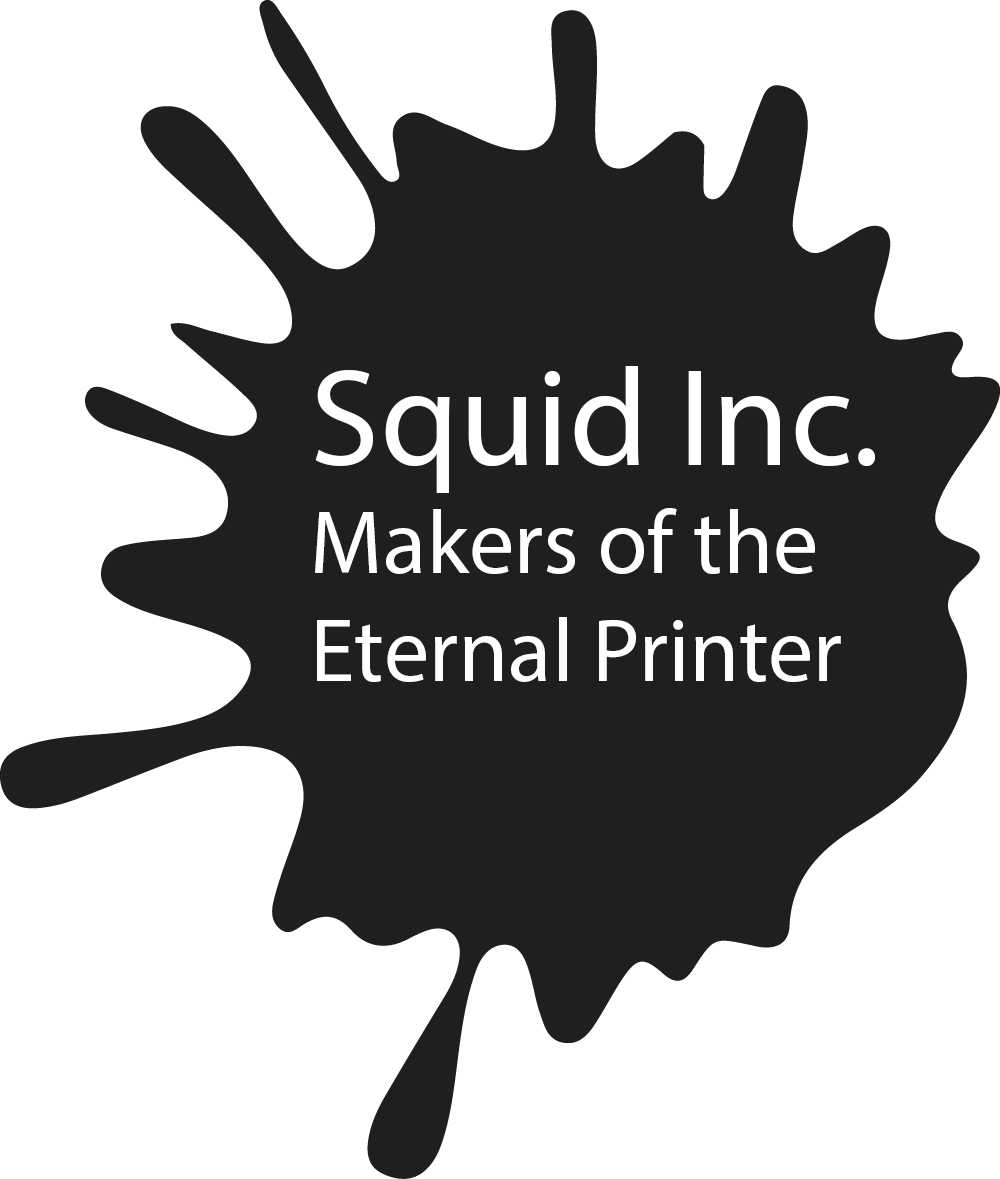
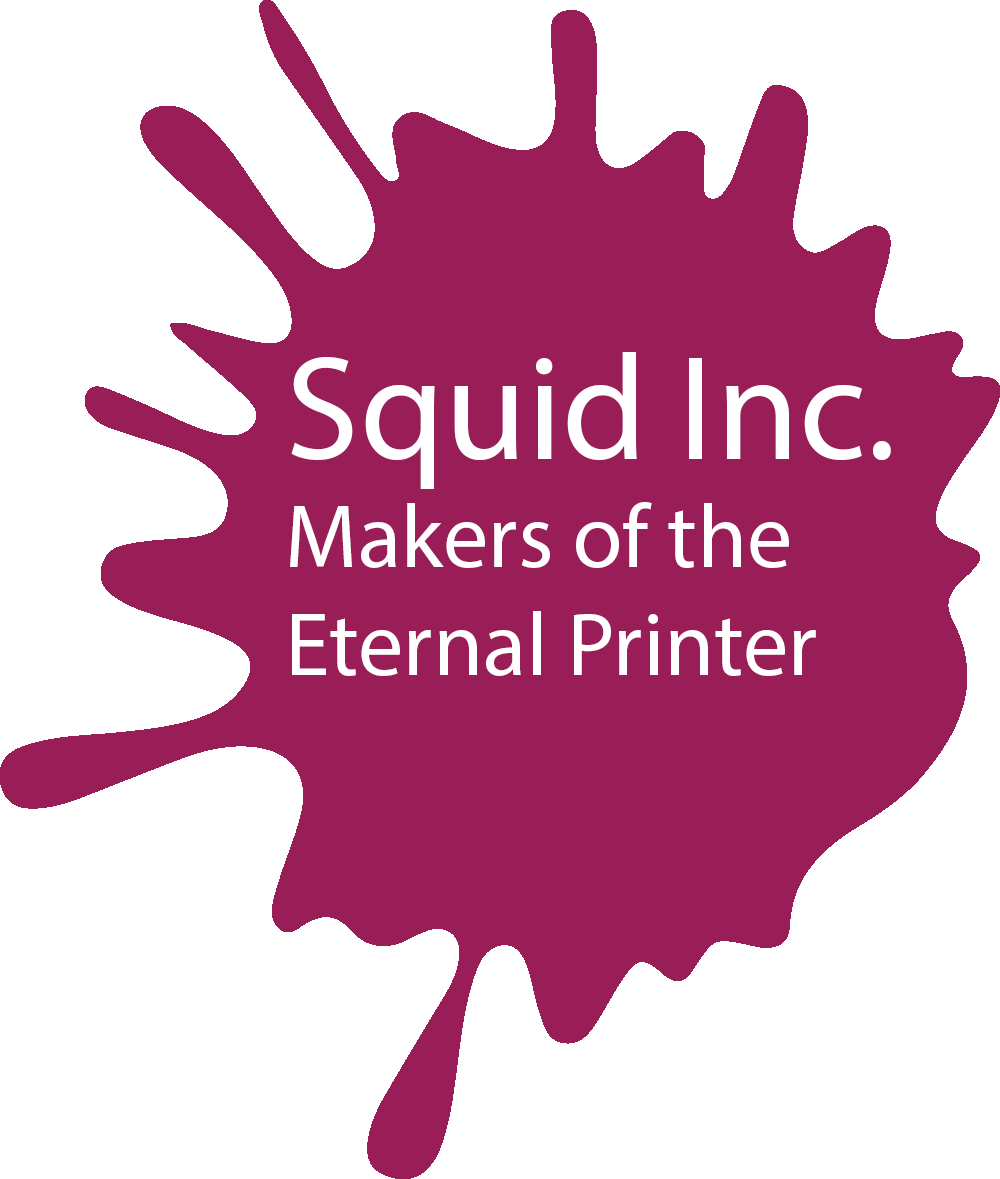
Color changes, and image changes

diff --git a/ClericoDezign_SquidInc/ClericoDezign_SquidInc/Style/Style.css b/ClericoDezign_SquidInc/ClericoDezign_SquidInc/Style/Style.css
@@ -176,7 +176,7 @@ nav a:active {
 }
 .blot2 
 {
-	background-image: url(/Content/img/ink_1.png);
+	background-image: url(/Content/img/ink_1_darkblue.png);
 	background-size:400px 350px;
 	background-repeat: no-repeat;
 	position:relative;
